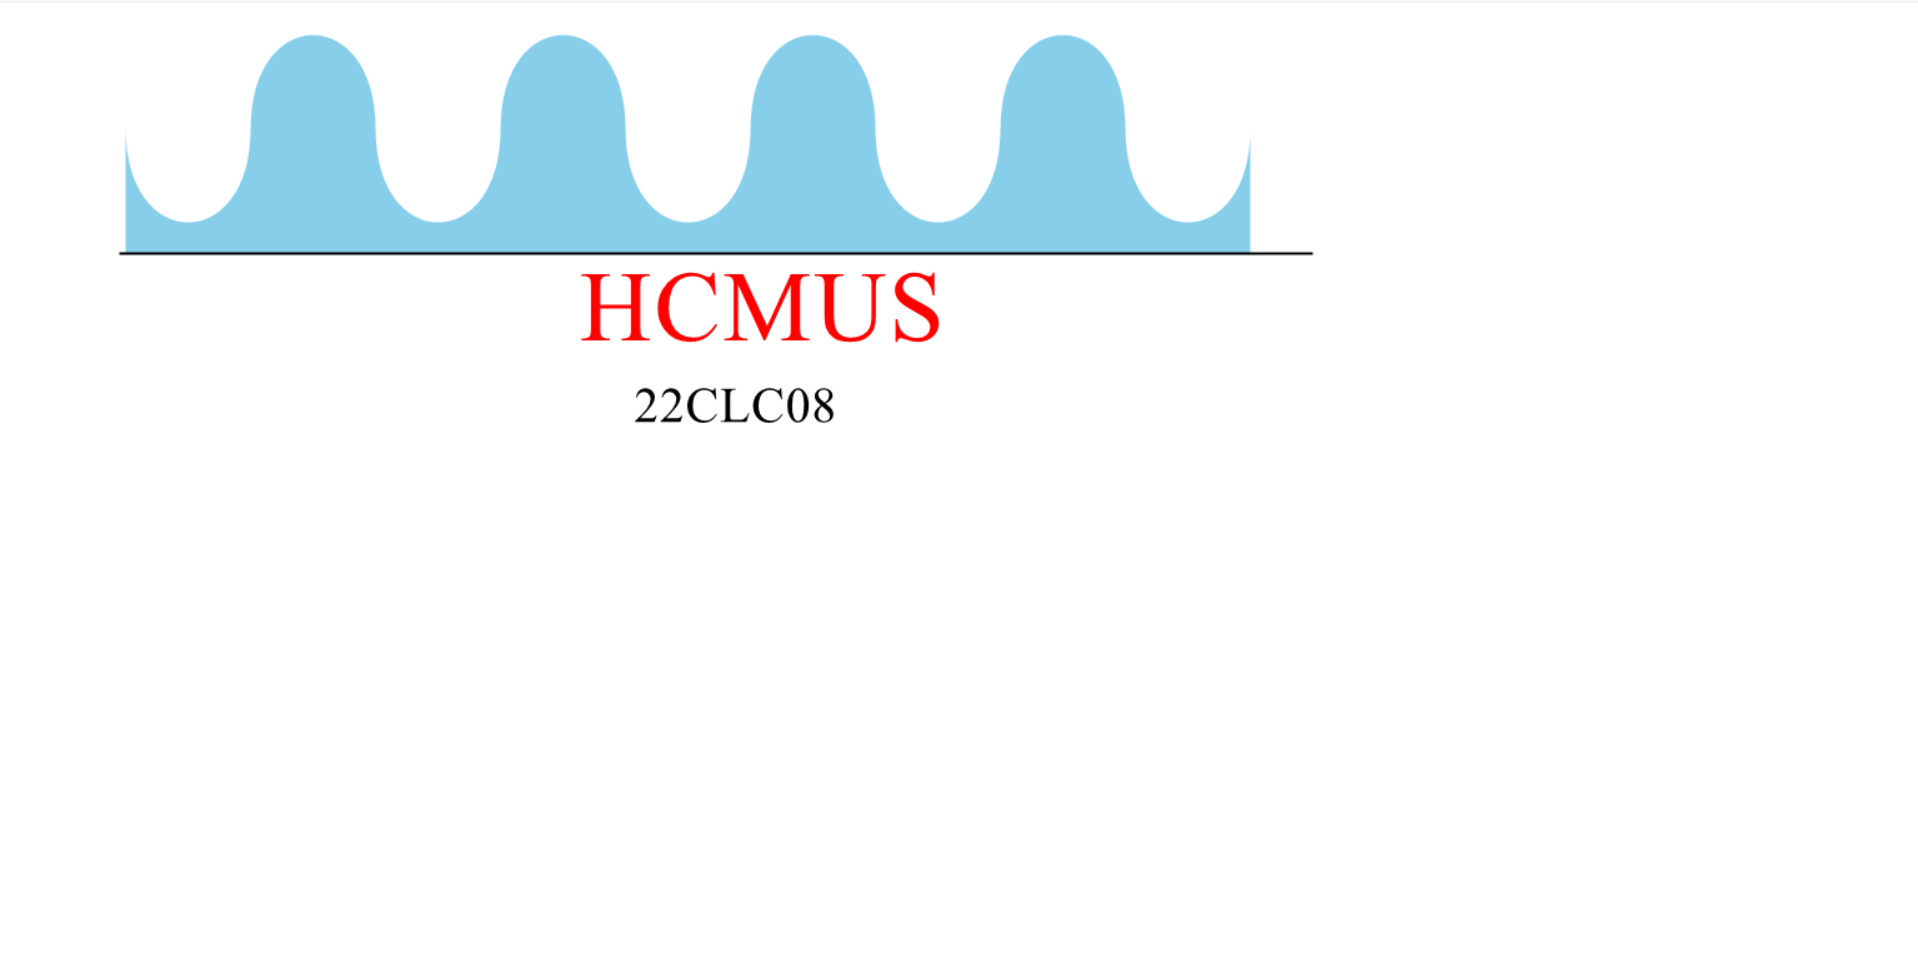
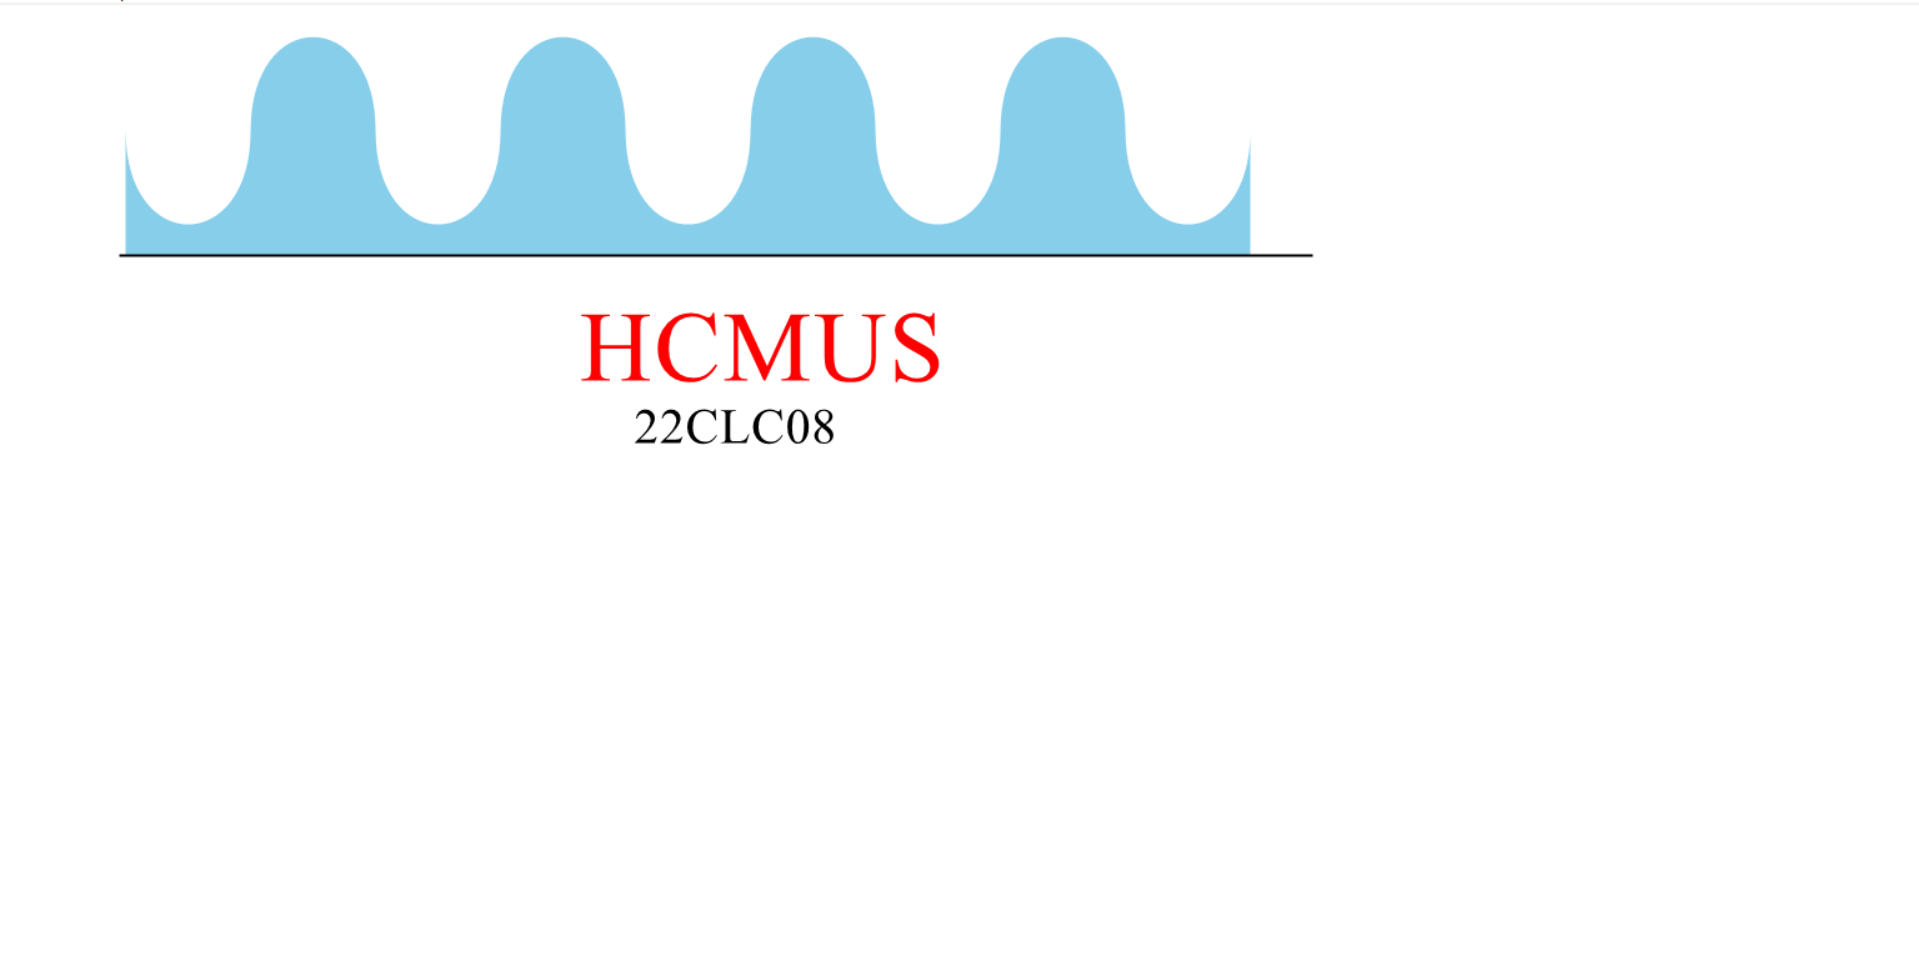
clamp color to fix svg 12 test case

diff --git a/SVG-Reader/Shape.cpp b/SVG-Reader/Shape.cpp
@@ -231,24 +231,25 @@ VOID SVGText::draw(Graphics& graphics) {
 	//format.SetLineAlignment(Gdiplus::StringAlignmentFar); xxxxxxxxxx
 	// 
 	format.SetAlignment(Gdiplus::StringAlignmentNear); // Left aligned
-	//format.SetLineAlignment(StringAlignmentNear);
-	format.SetLineAlignment(StringAlignmentFar);
+	format.SetLineAlignment(StringAlignmentNear);
+	//format.SetLineAlignment(StringAlignmentFar);
 
 
 
 
 
 	// add some variables to fix the alignment in gdi+
-	//int ascent = fontFamily.GetCellAscent(FontStyleRegular);
-	//int emHeight = fontFamily.GetEmHeight(FontStyleRegular);
-	//float lineHeight = fontSize; // line height
-	//float baselineOffset = lineHeight * (float) ascent / emHeight;
+	int ascent = fontFamily.GetCellAscent(FontStyleRegular);
+	int emHeight = fontFamily.GetEmHeight(FontStyleRegular);
+	float lineHeight = fontSize; // line height
+	float baselineOffset = lineHeight * (float) ascent / emHeight;
 
 
 	// cho này đang gặp vấn đề: cái - baseline/2 là chỉnh bừa chứ ko có logic gì??
 	//PointF drawPoint(position.getX() - baselineOffset / 2, position.getY() - baselineOffset);
+	PointF drawPoint(position.getX(), position.getY() - baselineOffset);
 
-	PointF drawPoint(position.getX(), position.getY());
+	//PointF drawPoint(position.getX(), position.getY());
 
 
 

diff --git a/SVG-Reader/RGBAColor.cpp b/SVG-Reader/RGBAColor.cpp
@@ -49,11 +49,11 @@ void RGBAColor::textToRGBA(char* text) {
         stringstream ss(stext);
         string temp;
         getline(ss, temp, ',');
-        red = stoi(temp);
+        red = clamp(stoi(temp));
         getline(ss, temp, ',');
-        green = stoi(temp);
+        green = clamp(stoi(temp));
         getline(ss, temp, ')');
-        blue = stoi(temp);
+        blue = clamp(stoi(temp));
 
         if (isColor == false) {
             alpha = 255;
